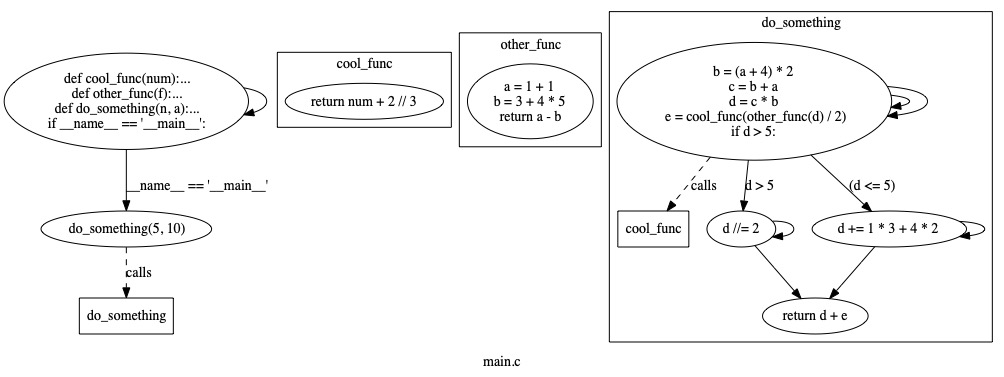
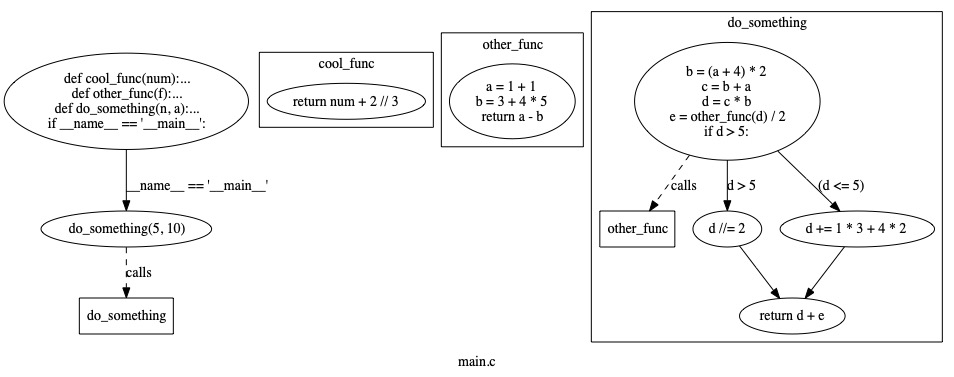
adjustment to hls and working on simulator

diff --git a/src/hls.py b/src/hls.py
@@ -149,7 +149,6 @@ class HardwareModel:
         return s
 
     def eval_expr(self, expr):
-        print(expr, type(expr))
         expr_to_node[expr] = self.id
         if type(expr) == ast.Name: 
             self.hw_allocated["Regs"] += 1
@@ -162,8 +161,11 @@ class HardwareModel:
                 for sub_expr in ASTUtils.get_sub_expr(expr):
                     self.eval_expr(sub_expr)
         if type(expr) == ast.FunctionDef:
-            print(expr.body[0])
             func_ref[expr.name] = expr
+    
+    def reset_hw(self):
+        for key in op2sym_map.keys():
+            self.hw_allocated[key] = 0
 
 def make_visual(cfg, models):
     graph = gv.Digraph()
@@ -175,17 +177,13 @@ def make_visual(cfg, models):
                 s += str(i) + ": " + str(hw[i]) + ", "
         if len(s) != 0:
             s = node.get_source() + "\n" + str(node.id) + ": [" + s[:-2] + "]" + "\n cycles: " + str(models[node.id].cycles)
+        else:
+            s = node.get_source() + "\n" + str(node.id) + ": no hardware allocated \n cycles: " + str(models[node.id].cycles)
         print(s)
         graph.node(str(node.id), s)
         for exit in node.exits:
             graph.edge(str(node.id), str(exit.target.id))
-        print(node.func_calls, "these are the calls")
-        for f in node.func_calls:
-            if f in cfg.functioncfgs:
-                graph.edge(str(node.id), str(cfg.functioncfgs[f].entryblock.id))
-                print(node.id, cfg.functioncfgs[f].entryblock.id)
-                for end in cfg.functioncfgs[f].finalblocks:
-                    graph.edge(str(end.id), str(node.id))
+        print(node.func_calls, "these are the calls \n")
     graph.render(path + 'pictures/' + benchmark + "_hw", view = True, format='jpeg')
 
 def main():
@@ -194,9 +192,6 @@ def main():
     cfg = CFGBuilder().build_from_file('main.c', path + 'nonai_models/' + benchmark + '.py')
     cfg.build_visual(path + 'pictures/' + benchmark, 'jpeg', show = False)
     models = {}
-    print(cfg.entryblock)
-    print([block.id for block in cfg.__iter__()])
-    print([cfg.functioncfgs[f] for f in cfg.functioncfgs], "hi")
     for node in cfg:
         #print([exit.target.id for exit in node.exits])
         print(node.func_calls, "func_calls")
@@ -205,8 +200,6 @@ def main():
             models[node.id].eval_expr(statement)
         print("Node", node.id, models[node.id].hw_allocated)
     make_visual(cfg, models)
-    print(func_ref)
-    print(expr_to_node)
     return 0
 
 if __name__ == "__main__":

diff --git a/src/util_sim.py b/src/util_sim.py
@@ -1,0 +1,29 @@
+import json
+import graphviz as gv
+from collections import deque
+import ast
+
+from cfg.staticfg.builder import CFGBuilder
+from cfg.staticfg.model import Block
+from cfg.staticfg.model import Link
+from hls_instrument import instrument_and_run
+from cfg.ast_utils import ASTUtils
+from hls import HardwareModel
+
+
+def sim(cfg, hw):
+    cycle = 0
+    offset = 0
+    stack = deque()
+    cur_node = cfg.entryblock.exits[0].target
+    while True:
+        hw_need = HardwareModel(0, 0)
+        for statement in cur_node.statements:
+            hw_need.eval_expr(statement)
+            print(hw_need.hw_allocated)
+        break
+    return cycle
+
+if __name__ == "__main__":
+    sim()
+

diff --git a/src/sim_wrapper.py b/src/sim_wrapper.py
@@ -1,0 +1,21 @@
+import ast
+from cfg.staticfg.builder import CFGBuilder
+from hls import HardwareModel
+from util_sim import sim
+
+path = '/Users/PatrickMcEwen/high_level_synthesis/venv/codesign/src/cfg/benchmarks/'
+benchmark = 'simple'
+
+def main():
+    global path, benchmark
+    cfg = CFGBuilder().build_from_file('main.c', path + 'nonai_models/' + benchmark + '.py')
+    cfg.build_visual(path + 'pictures/' + benchmark, 'jpeg', show = True)
+    hw = HardwareModel(0, 0)
+    hw.hw_allocated['Add'] = 2
+    hw.hw_allocated['Regs'] = 3
+    hw.hw_allocated['Mult'] = 1
+    print(sim(cfg, hw))
+
+
+if __name__ == "__main__":
+    main()

diff --git a/src/cfg/benchmarks/nonai_models/simple.py b/src/cfg/benchmarks/nonai_models/simple.py
@@ -10,7 +10,7 @@ def do_something(n, a):
     b = (a + 4) * 2
     c = b + a
     d = c * b
-    e = cool_func(other_func(d) / 2)
+    e = other_func(d) / 2
     if d > 5:
         d //= 2
     else:
